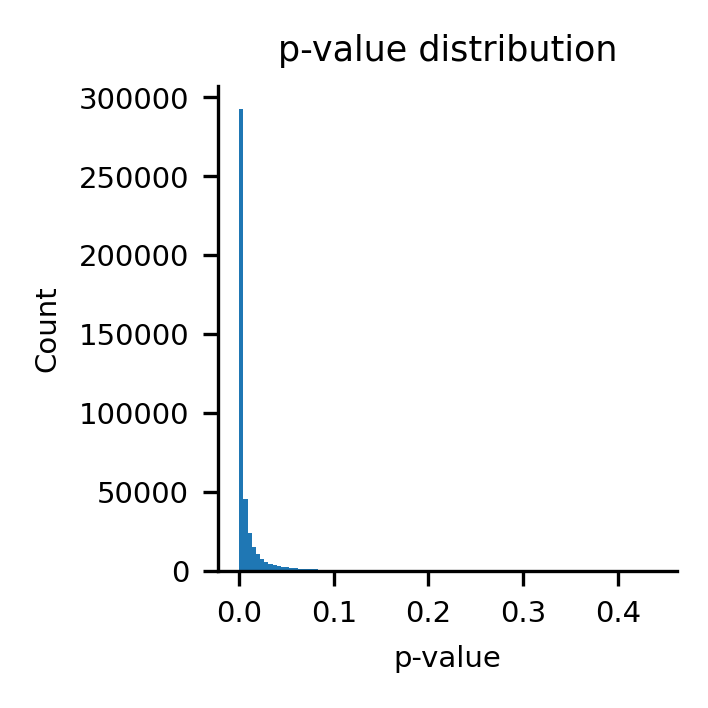
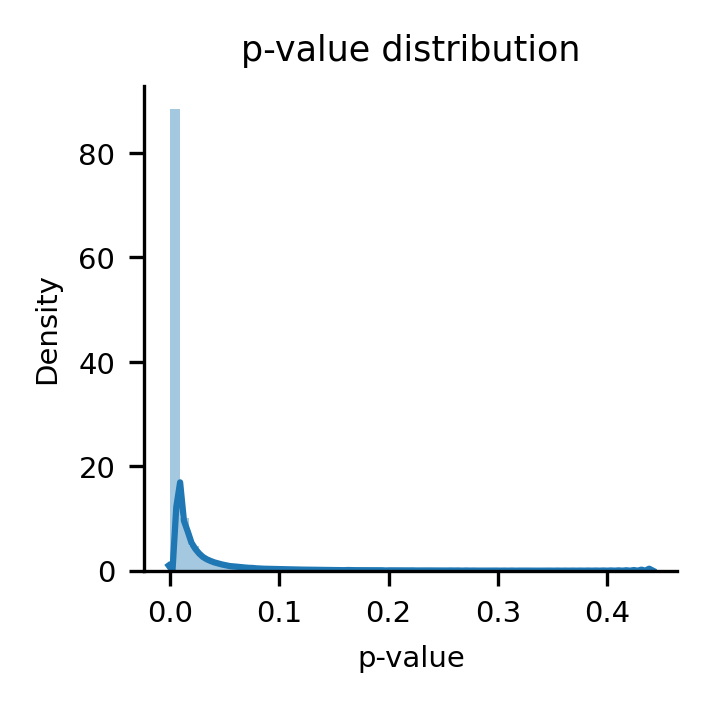
looking at ra

Changed region(s): [[0.0311, 0.1243, 0.9322, 0.9633], [0.3418, 0.0311, 0.8701, 0.0932], [0.1243, 0.7768, 0.1554, 0.839]]

diff --git a/point_average/adjust_and_vis.py b/point_average/adjust_and_vis.py
@@ -41,12 +41,12 @@ def vis_pvals(comparison_df):
     '''
 
     fig,ax = plt.subplots(figsize=(6/2.54, 6/2.54))
-    sns.distplot(comparison_df['p'], bins=100)
+    sns.distplot(comparison_df['p'])
     #Format plot
     plt.title('p-value distribution')
     ax.spines['top'].set_visible(False)
     ax.spines['right'].set_visible(False)
-    plt.ylabel('Count')
+    plt.ylabel('Density')
     plt.xlabel('p-value')
     plt.tight_layout()
     plt.savefig(outdir+'pval_distribution.png', format='png', dpi=300)
@@ -57,12 +57,76 @@ def calc_derivatives(sel, running_averages):
     '''Calculate the derivatives for all significant probes
     with FC >2 (or less than 1/2)
     '''
-    gradients = np.zeros(len(sel)) #Save gradients
+    gradients = np.zeros((len(sel),running_averages.shape[1])) #Save gradients
+    max_grad_diff = np.zeros(len(sel))
     sel_indices = np.array(sel.index) #Indices
+    #Plot the selected ra as well
+    fig1,ax1 = plt.subplots(figsize=(6/2.54, 6/2.54))
+    fig2,ax2 = plt.subplots(figsize=(6/2.54, 6/2.54))
     for i in range(len(sel)):
         si = sel_indices[i] #Get index
-        gradients[i]=np.gradient(running_averages[si,:]) #Calc gradient
+        gradients[i,:]=np.gradient(running_averages[si,:]) #Calc gradient
+        max_grad_diff[i] = (max(gradients[i,:])-min(gradients[i,:]))
+
+        ax1.plot(np.arange(19,102),running_averages[si,:]/max(running_averages[si,:]),color='b', linewidth=0.1,alpha=0.1)
+        ax2.plot(np.arange(19,102),gradients[i,:],color='b', linewidth=0.1,alpha=0.1)
+
+    #Format plot
+    ax1.set_title('Running averages')
+    ax1.spines['top'].set_visible(False)
+    ax1.spines['right'].set_visible(False)
+    ax1.set_ylabel('Normalized beta value')
+    ax1.set_xlabel('Age')
+    fig1.tight_layout()
+    fig1.savefig(outdir+'ra.png', format='png', dpi=300)
+
+    ax2.set_title('Gradients of running averages')
+    ax2.spines['top'].set_visible(False)
+    ax2.spines['right'].set_visible(False)
+    ax2.set_ylabel('Gradient')
+    ax2.set_xlabel('Age')
+    fig2.tight_layout()
+    fig2.savefig(outdir+'gradients.png', format='png', dpi=300)
+    plt.close()
+
+    fig,ax = plt.subplots(figsize=(6/2.54, 6/2.54))
+    #Plot gradients with diff >0.1
+    sel_grad = gradients[np.where(max_grad_diff>0.1)]
+    for i in range(len(sel_grad)):
+        plt.plot(np.arange(19,102),sel_grad[i,:],color='b', linewidth=0.1)
+    plt.show()
+    #Plot distribution of the max grad diff
+    fig,ax = plt.subplots(figsize=(6/2.54, 6/2.54))
+    sns.distplot(max_grad_diff)
+    #Format plot
+    plt.title('Max gradient difference')
+    ax.spines['top'].set_visible(False)
+    ax.spines['right'].set_visible(False)
+    plt.ylabel('Density')
+    plt.xlabel('Max gradient difference')
+    plt.tight_layout()
+    plt.savefig(outdir+'grad_diff_distribution.png', format='png', dpi=300)
+    plt.close()
+
+
+    #Plot max grad diff vs fold change
+    fig,ax = plt.subplots(figsize=(6/2.54, 6/2.54))
+    matplotlib.rc('lines', linewidth=0.5, linestyle='--')
+    plt.scatter(max_grad_diff, np.log10(sel['fold_change']),s=0.1,color='cornflowerblue')
+    sns.kdeplot(max_grad_diff, np.log10(sel['fold_change']),shade_lowest =False,color="w", ax=ax)
+    #Format plot
+    plt.title('Max grad. diff. vs FC')
+    ax.spines['top'].set_visible(False)
+    ax.spines['right'].set_visible(False)
+    plt.ylabel('log10(FC)')
+    plt.xlabel('Max gradient difference')
+    plt.tight_layout()
+    plt.savefig(outdir+'grad_diff_vs_FC.png', format='png', dpi=300)
+    plt.close()
     pdb.set_trace()
+
+    #Plot the top 10 gradient changes
+
 
 def plot_probes(X,markers,ages,age_indices,overlapping_probes):
     '''Plot the change in probe vs age.
@@ -102,7 +166,6 @@ gene_annotations = pd.read_csv(args.gene_annotations[0],low_memory=False)
 running_averages = np.load(args.running_averages[0], allow_pickle=True)
 max_fold_change_df = pd.read_csv(args.max_fold_change_df[0])
 outdir = args.outdir[0]
-
 #Visualize pvals
 vis_pvals(max_fold_change_df)
 #Adjust pvals
@@ -111,6 +174,6 @@ max_fold_change_df = adjust_pvals(max_fold_change_df)
 sel = max_fold_change_df[max_fold_change_df['Rejection on 0.05']==True]
 sel = sel[np.absolute(sel['fold_change'])>2]
 #Print the number selected
-print(len(sel),' selected markers out of', len(max_fold_change_df))
+print(len(sel),'selected markers out of', len(max_fold_change_df))
 #Calculate derivatives
 calc_derivatives(sel, running_averages)
